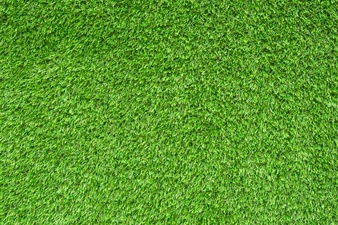
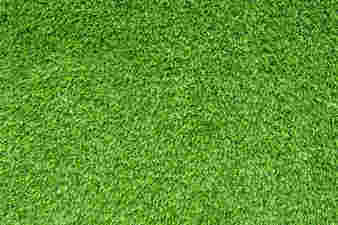
Added chat app to portfolio and compressed images further

diff --git a/src/components/Portfolio.js b/src/components/Portfolio.js
@@ -15,8 +15,8 @@ import Lightbox from 'react-image-lightbox';
 import '../styles/Portfolio.css';
 
 import sp_01 from '../images/sp_01.jpg';
-import sp_02 from '../images/sp_02.png';
-import sp_03 from '../images/sp_03.png';
+import sp_02 from '../images/sp_02.jpg';
+import sp_03 from '../images/sp_03.jpg';
 import sp_04 from '../images/sp_04.png';
 import sp_05 from '../images/sp_05.png';
 import sp_06 from '../images/sp_06.png';
@@ -41,6 +41,9 @@ import todo11 from '../images/todo11.png';
 import todo12 from '../images/todo12.png';
 import todo13 from '../images/todo13.png';
 import todo14 from '../images/todo14.png';
+
+import chatapp1 from '../images/chatapp1.jpg';
+import chatapp2 from '../images/chatapp2.jpg';
 
 const styles = {
   headline: {
@@ -89,6 +92,10 @@ const imagesTwo = [
   todo14,
 ];
 
+const imagesThree = [
+  chatapp1,
+  chatapp2
+];
 
 class Portfolio extends Component {
   constructor(props) {
@@ -96,8 +103,10 @@ class Portfolio extends Component {
     this.state = {
       photoIndexOne: 0,
       photoIndexTwo: 0,
+      photoIndexThree: 0,
       isOpenOne: false,
-      isOpenTwo: false
+      isOpenTwo: false,
+      isOpenThree: false,
     };
   }
 
@@ -107,6 +116,8 @@ class Portfolio extends Component {
       isOpenOne,
       photoIndexTwo,
       isOpenTwo,
+      photoIndexThree,
+      isOpenThree,
     } = this.state;
 
     return (
@@ -136,9 +147,9 @@ class Portfolio extends Component {
                     <p>Use card number: "4242424242424242" for testing (Or any other valid demo number as prescribed in Stripe Documentation)</p>
                   </CardText>
                   <CardActions>
-                    <RaisedButton primary={true} label="Source Code" target="_blank" href="https://github.com/prathameshpm/shopping-cart" />
-                    <RaisedButton secondary={true} label="Visit Website" target='_blank' href="https://hidden-tor-96232.herokuapp.com/" />
-                    <RaisedButton default={true} label="Screen Shots" onClick={() => this.setState({ isOpenOne: true })} />
+                    <RaisedButton primary={true} label="Source Code" target="_blank" href="https://github.com/prathameshpm/shopping-cart" style={{margin: 10}} />
+                    <RaisedButton secondary={true} label="Visit Website" target='_blank' href="https://hidden-tor-96232.herokuapp.com/" style={{margin: 10}} />
+                    <RaisedButton default={true} label="Screen Shots" onClick={() => this.setState({ isOpenOne: true })} style={{margin: 10}} />
                   </CardActions>
                 </Card>
               </div>
@@ -166,7 +177,7 @@ class Portfolio extends Component {
                   <CardHeader
                     title="To Do API"
                     subtitle="A Project in Nodejs"
-                    avatar={require("../images/postman.png")}
+                    avatar={require("../images/postman.jpg")}
                   />
                   <CardMedia>
                     <img src={todo01} alt="Home" />
@@ -182,8 +193,8 @@ class Portfolio extends Component {
                     <p>* API Link: 'https://thawing-depths-20269.herokuapp.com/'</p>
                   </CardText>
                   <CardActions>
-                    <RaisedButton primary={true} label="Source Code" target="_blank" href="https://github.com/prathameshpm/node-to-do-ppm" />
-                    <RaisedButton secondary={true} label="Screen Shots" onClick={() => this.setState({ isOpenTwo: true })} />
+                    <RaisedButton primary={true} label="Source Code" target="_blank" href="https://github.com/prathameshpm/node-to-do-ppm" style={{margin: 10}} />
+                    <RaisedButton secondary={true} label="Screen Shots" onClick={() => this.setState({ isOpenTwo: true })} style={{margin: 10}} />
                   </CardActions>
                 </Card>
               </div>
@@ -196,7 +207,7 @@ class Portfolio extends Component {
 
                     onCloseRequest={() => this.setState({ isOpenTwo: false })}
                     onMovePrevRequest={() => this.setState({
-                      photoIndex: (photoIndexTwo + imagesTwo.length - 1) % imagesTwo.length,
+                      photoIndexTwo: (photoIndexTwo + imagesTwo.length - 1) % imagesTwo.length,
                     })}
                     onMoveNextRequest={() => this.setState({
                       photoIndexTwo: (photoIndexTwo + 1) % imagesTwo.length,
@@ -205,6 +216,50 @@ class Portfolio extends Component {
                 }
               </div>
               <div className="col m1"></div>
+            </div>
+            <div className="row">
+              <div className="container">
+                <div className="row">
+                  <div className="col m5">
+                    <Card style={styles.card}>
+                      <CardHeader
+                        title="Realtime Chat App"
+                        subtitle="A Project using websockets"
+                        avatar={require("../images/websockets.png")}
+                      />
+                      <CardMedia>
+                        <img src={chatapp1} alt="Home" />
+                      </CardMedia>
+                      <CardTitle title="TechStack Used" subtitle="Nodejs, Express, MongoDB" />
+                      <CardText>
+                        <p>Created using Websockets & geolocation</p>
+                      </CardText>
+                      <CardActions>
+                        <RaisedButton primary={true} label="Source Code" target="_blank" href="https://github.com/prathameshpm/node-to-do-ppm" style={{margin: 10}} />
+                        <RaisedButton secondary={true} label="Visit Website" target='_blank' href="https://fast-reef-48042.herokuapp.com/" style={{margin: 10}} />
+                        <RaisedButton default={true} label="Screen Shots" onClick={() => this.setState({ isOpenThree: true })} style={{margin: 10}} />
+                      </CardActions>
+                    </Card>
+                  </div>
+                  <div>
+                    {isOpenThree &&
+                      <Lightbox
+                        mainSrc={imagesThree[photoIndexThree]}
+                        nextSrc={imagesThree[(photoIndexThree + 1) % imagesThree.length]}
+                        prevSrc={imagesThree[(photoIndexThree + imagesThree.length - 1) % imagesThree.length]}
+
+                        onCloseRequest={() => this.setState({ isOpenThree: false })}
+                        onMovePrevRequest={() => this.setState({
+                          photoIndexThree: (photoIndexThree + imagesThree.length - 1) % imagesThree.length,
+                        })}
+                        onMoveNextRequest={() => this.setState({
+                          photoIndexThree: (photoIndexThree + 1) % imagesThree.length,
+                        })}
+                      />
+                    }
+                  </div>
+                </div>
+              </div>
             </div>
           </div>
         </Animated>

diff --git a/src/components/Skills.js b/src/components/Skills.js
@@ -48,10 +48,10 @@ class Skills extends Component {
             <div className="container">
               <div>
                 <Paper zDepth={5} style={{textAlign: 'center', margin: 30}}>
-                  <Avatar src={require('../images/html.png')} size={180} style={{margin: 10}} />
-                  <Avatar src={require('../images/css.png')} size={180} style={{margin: 10}} />
-                  <Avatar src={require('../images/bootstrap.png')} size={180} style={{margin: 10}} />
-                  <Avatar src={require('../images/react.png')} size={180} style={{margin: 10}} />
+                  <Avatar src={require('../images/html.jpg')} size={180} style={{margin: 10}} />
+                  <Avatar src={require('../images/css.jpg')} size={180} style={{margin: 10}} />
+                  <Avatar src={require('../images/bootstrap.jpg')} size={180} style={{margin: 10}} />
+                  <Avatar src={require('../images/react.jpg')} size={180} style={{margin: 10}} />
                   <Avatar src={require('../images/redux.png')} size={180} style={{margin: 10}} />
                   <Avatar src={require('../images/material.png')} size={180} style={{margin: 10}} />
                 </Paper>
@@ -68,7 +68,7 @@ class Skills extends Component {
               <div>
                 <Paper zDepth={5} style={{textAlign: 'center', margin: 30}}>
                   <Avatar src={require('../images/terminal.png')} size={180} style={{margin: 10}} />
-                  <Avatar src={require('../images/atom.png')} size={180} style={{margin: 10}} />
+                  <Avatar src={require('../images/atom.jpg')} size={180} style={{margin: 10}} />
                   <Avatar src={require('../images/vscode.png')} size={180} style={{margin: 10}} />
                 </Paper>
               </div>
@@ -91,17 +91,17 @@ class Skills extends Component {
             <div className="container">
               <div>
                 <Paper zDepth={5} style={{textAlign: 'center', margin: 30}}>
-                  <Avatar src={require('../images/node.png')} size={180} style={{margin: 10}} />
-                  <Avatar src={require('../images/express.png')} size={180} style={{margin: 10}} />
-                  <Avatar src={require('../images/mongodb.png')} size={180} style={{margin: 10}} />
+                  <Avatar src={require('../images/node.jpeg')} size={180} style={{margin: 10}} />
+                  <Avatar src={require('../images/express.jpg')} size={180} style={{margin: 10}} />
+                  <Avatar src={require('../images/mongodb.jpg')} size={180} style={{margin: 10}} />
                 </Paper>
               </div>
             </div>
             <div className="container">
               <div>
                 <Paper zDepth={5} style={{textAlign: 'center', margin: 30}}>
-                  <Avatar src={require('../images/github.png')} size={180} style={{margin: 10}} />
-                  <Avatar src={require('../images/heroku.png')} size={180} style={{margin: 10}} />
+                  <Avatar src={require('../images/github.jpg')} size={180} style={{margin: 10}} />
+                  <Avatar src={require('../images/heroku.jpg')} size={180} style={{margin: 10}} />
                   <Avatar src={require('../images/cpanel.png')} size={180} style={{margin: 10}} />
                 </Paper>
               </div>
@@ -110,7 +110,7 @@ class Skills extends Component {
               <div>
                 <Paper zDepth={5} style={{textAlign: 'center', margin: 30}}>
                   <Avatar src={require('../images/gimp.jpg')} size={180} style={{margin: 10}} />
-                  <Avatar src={require('../images/photoshop.png')} size={180} style={{margin: 10}} />
+                  <Avatar src={require('../images/photoshop.jpg')} size={180} style={{margin: 10}} />
                 </Paper>
               </div>
             </div>

diff --git a/src/styles/Home.css b/src/styles/Home.css
@@ -14,7 +14,7 @@ h5 {
   padding: 0;
   background-size: cover;
   height: 92vh;
-  background-image: url('../images/img_three.png');
+  background-image: url('../images/img_three.jpg');
   background-position: center;
   background-repeat: no-repeat;
   display: flex;

diff --git a/src/styles/Portfolio.css b/src/styles/Portfolio.css
@@ -2,7 +2,7 @@
   background-image: url('../images/grass.jpg');
   position: relative;
   background-repeat: repeat;
-  height: 92vh;
+  height: 240vh;
 }
 
 .shoppingCart:before {
